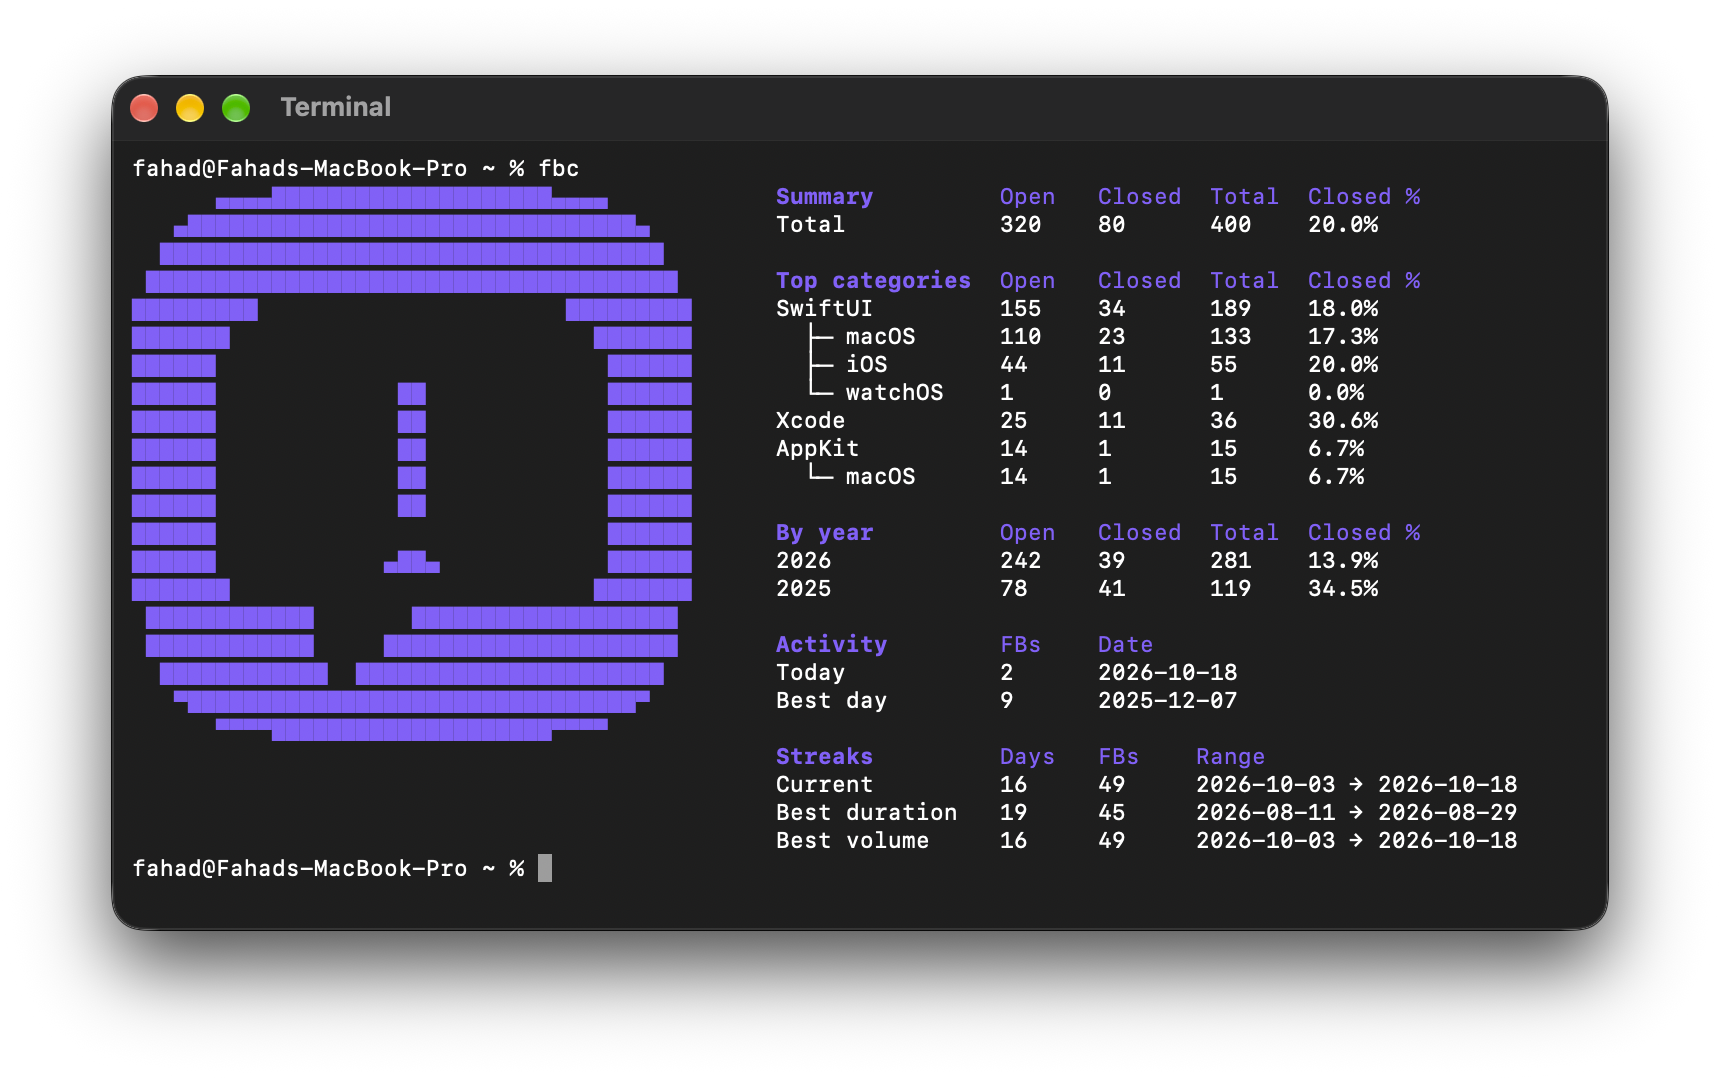
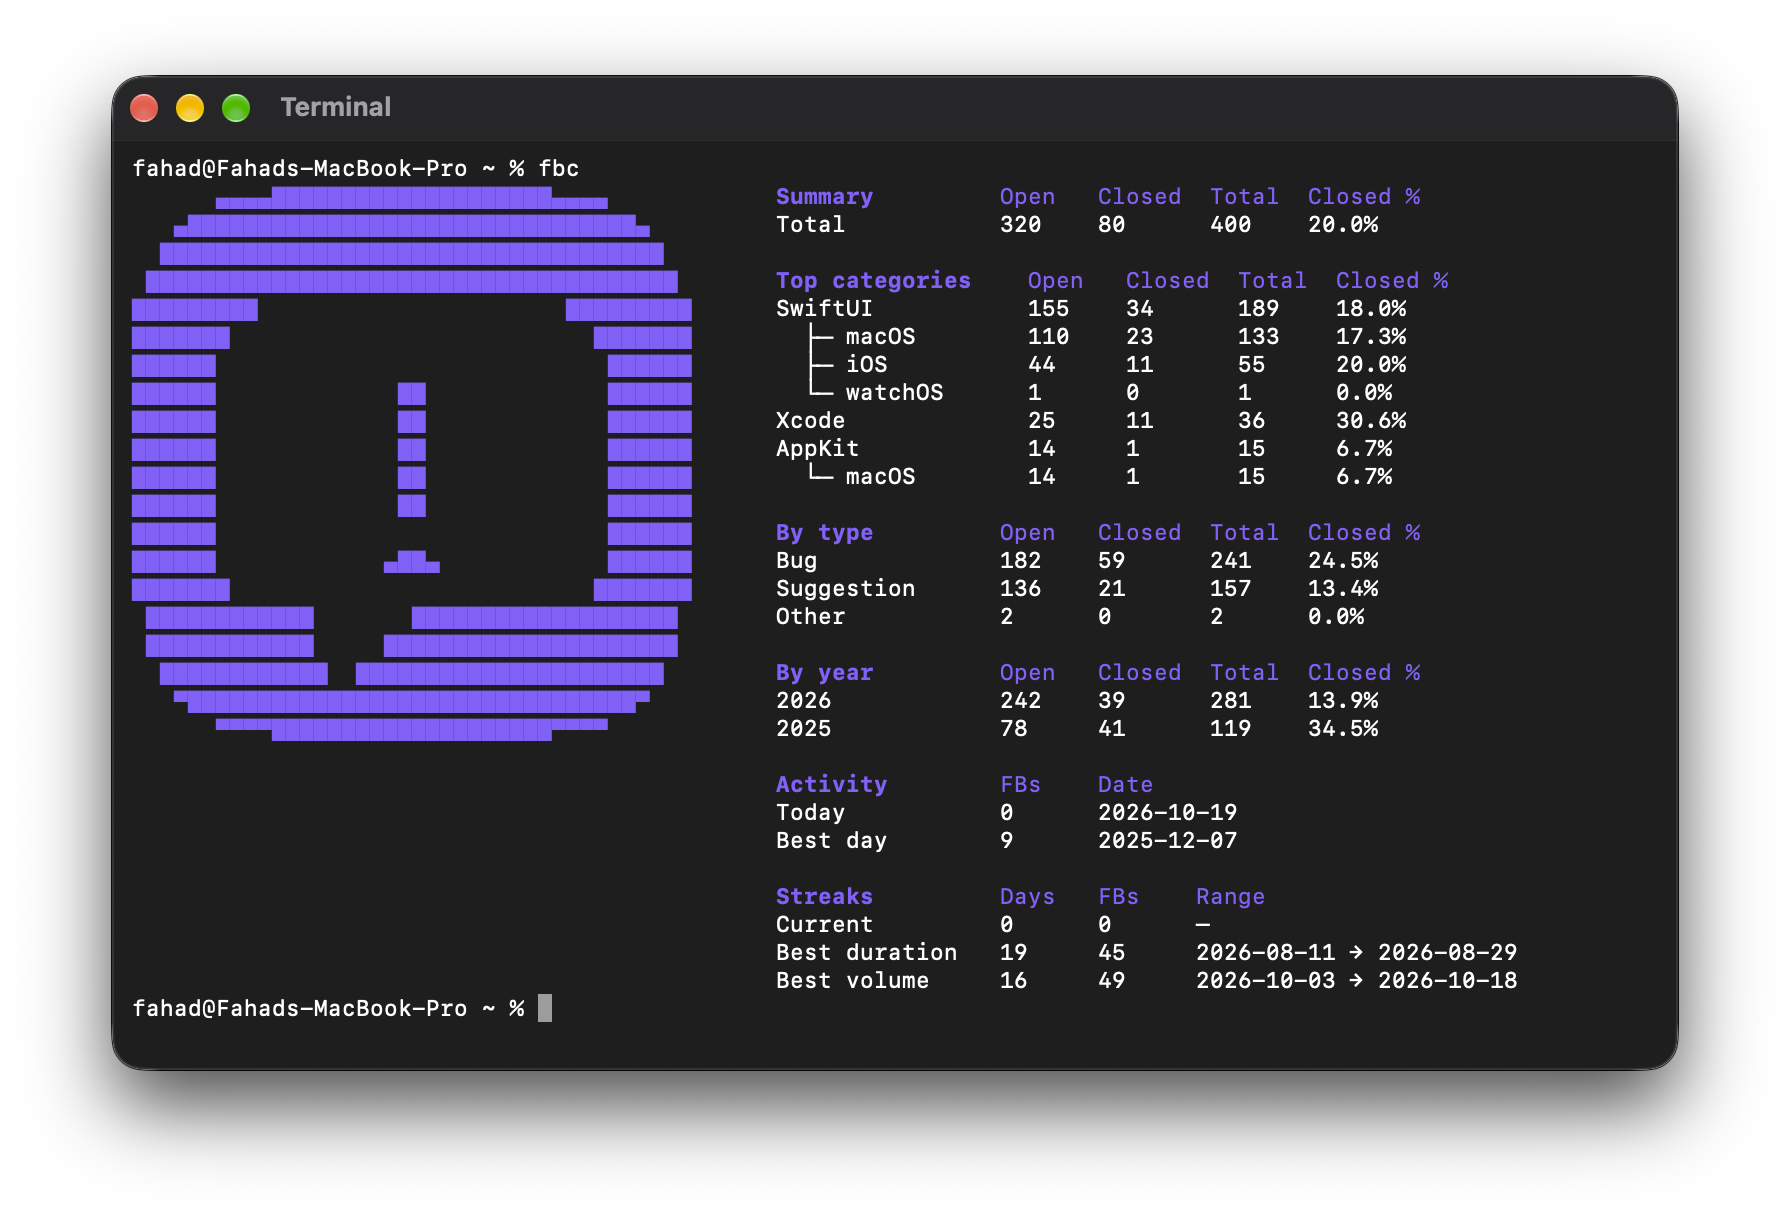
Improve report breakdowns and cached-data guidance

Changed region(s): [[0.4314, 0.1531, 0.8936, 0.8265], [0.0616, 0.0612, 0.9552, 0.7041], [0.0616, 0.7959, 0.9552, 0.9184]]

diff --git a/fbc.swift b/fbc.swift
@@ -5,9 +5,11 @@ import Darwin
 private enum FBCountError: Error, CustomStringConvertible {
     case database(String)
     case missingDatabase(String)
+    case usage
 
     var description: String {
         switch self {
+        case .usage: "Usage: fbc [--missing | --help]"
         case .database(let message): message
         case .missingDatabase(let path): "Feedback database not found at \(path)"
         }
@@ -129,6 +131,100 @@ private func decodedPlatform(in data: Data) -> Platform? {
         return nil
     }
     return findPlatform(in: propertyList)
+}
+
+private func feedbackType(for answer: String) -> String? {
+    switch answer {
+    case "Suggestion", "Enhancement Request": return "Suggestion"
+    case "Incorrect/Unexpected Behavior", "Error or issue using a feature",
+         "Application Crash", "Application Slow/Unresponsive",
+         "Crash", "Crash/Hang/Data Loss", "Bug Report": return "Bug"
+    default: return nil
+    }
+}
+
+@objc(FBCCachedQuestion)
+private final class CachedQuestion: NSObject, NSCoding {
+    let text: String?
+    let answer: String?
+
+    required init?(coder: NSCoder) {
+        text = coder.decodeObject(forKey: "question_text") as? String
+        answer = coder.decodeObject(forKey: "answer_text") as? String
+    }
+
+    func encode(with coder: NSCoder) {}
+}
+
+@objc(FBCCachedQuestionGroup)
+private final class CachedQuestionGroup: NSObject, NSCoding {
+    let questions: [CachedQuestion]
+
+    required init?(coder: NSCoder) {
+        questions = coder.decodeObject(forKey: "questions") as? [CachedQuestion] ?? []
+    }
+
+    func encode(with coder: NSCoder) {}
+}
+
+private func cachedQuestions(in data: Data) -> [CachedQuestion]? {
+    guard let decoder = try? NSKeyedUnarchiver(forReadingFrom: data) else { return nil }
+    defer { decoder.finishDecoding() }
+    decoder.requiresSecureCoding = false
+    decoder.decodingFailurePolicy = .setErrorAndReturn
+    decoder.setClass(CachedQuestion.self, forClassName: "FBKQuestionAnswerPair")
+    decoder.setClass(CachedQuestionGroup.self, forClassName: "FBKQuestionGroupStub")
+    guard let groups = decoder.decodeObject(forKey: NSKeyedArchiveRootObjectKey)
+        as? [CachedQuestionGroup] else { return nil }
+    let questions = groups.flatMap(\.questions)
+    guard decoder.error == nil, !questions.isEmpty,
+          questions.allSatisfy({ $0.text != nil }) else { return nil }
+    return questions
+}
+
+private func decodedStubFeedbackType(in data: Data) -> String? {
+    guard let questions = cachedQuestions(in: data) else { return nil }
+    let types = Set(questions.compactMap { question -> String? in
+        guard let text = question.text,
+              ["What type of feedback are you reporting?", "What type of issue are you reporting?"]
+                .contains(text),
+              let answer = question.answer else { return nil }
+        return feedbackType(for: answer)
+    })
+    return types.count == 1 ? types.first : nil
+}
+
+private enum MissingFieldState: String {
+    case needsHydration
+    case unavailable = "not provided by cached form"
+    case unanswered = "no answer in cached form"
+    case unrecognized = "unrecognized cached answer"
+    case unreadable = "cached form could not be decoded"
+
+    var isUnspecified: Bool { self == .unavailable || self == .unanswered }
+}
+
+private func missingFieldState(_ field: String, stub: Data?) -> MissingFieldState {
+    guard let stub else { return .needsHydration }
+    guard let questions = cachedQuestions(in: stub) else { return .unreadable }
+    let matching = questions.filter { question in
+        guard let text = question.text else { return false }
+        if field == "type" {
+            return ["What type of feedback are you reporting?", "What type of issue are you reporting?"]
+                .contains(text)
+        }
+        return text == "Which platform is most relevant for your report?"
+    }
+    guard !matching.isEmpty else { return .unavailable }
+    return matching.contains { !($0.answer ?? "").trimmingCharacters(in: .whitespacesAndNewlines).isEmpty }
+        ? .unrecognized : .unanswered
+}
+
+private func decodedFeedbackType(in data: Data) -> String? {
+    guard let answers = try? NSKeyedUnarchiver.unarchivedObject(
+        ofClasses: [NSArray.self, NSString.self], from: data
+    ) as? [String], answers.count == 1 else { return nil }
+    return feedbackType(for: answers[0])
 }
 
 private func findPlatform(in value: Any) -> Platform? {
@@ -286,6 +382,14 @@ private func countRow(_ label: String, counts: Counts, indent: Int = 2, labelWid
 }
 
 private func run() throws {
+    let arguments = Array(CommandLine.arguments.dropFirst())
+    if arguments == ["--help"] || arguments == ["-h"] {
+        print("Usage: fbc [--missing | --help]")
+        print("  --missing  List reports with missing or unreadable details.")
+        return
+    }
+    guard arguments.isEmpty || arguments == ["--missing"] else { throw FBCountError.usage }
+    let showsMissing = arguments == ["--missing"]
     let databasePath = FileManager.default.homeDirectoryForCurrentUser
         .appendingPathComponent("Library/Group Containers/group.com.apple.feedback/Library/Application Support/feedback.sqlite")
         .path
@@ -364,16 +468,75 @@ private func run() throws {
         }
 
     var platformCounts: [String: [Platform: Counts]] = [:]
+    var unspecifiedPlatforms: [String: Counts] = [:]
     var unknown: [String: [Feedback]] = [:]
     for item in feedback {
         let platform = item.stub.flatMap(decodedPlatform)
             ?? item.responseID.flatMap { answerPlatforms[$0] }
         if let platform {
             platformCounts[item.area, default: [:]][platform, default: Counts()].add(isClosed: item.isClosed)
+        } else if missingFieldState("platform", stub: item.stub).isUnspecified {
+            unspecifiedPlatforms[item.area, default: Counts()].add(isClosed: item.isClosed)
         } else {
             unknown[item.area, default: []].append(item)
         }
     }
+
+    var missingMetadata: [Int64: Set<String>] = [:]
+    var cachedMetadataIssues: [Int64: Set<String>] = [:]
+    func recordMissingField(_ field: String, remoteID: Int64, stub: Data?) {
+        guard remoteID > 0 else { return }
+        let state = missingFieldState(field, stub: stub)
+        guard !state.isUnspecified else { return }
+        if state == .needsHydration {
+            missingMetadata[remoteID, default: []].insert(field)
+        } else {
+            cachedMetadataIssues[remoteID, default: []].insert("\(field): \(state.rawValue)")
+        }
+    }
+    var feedbackTypes: [String: Counts] = [:]
+    var answerTypes: [Int64: Set<String>] = [:]
+    try database.rows("""
+        SELECT a.ZFORMRESPONSE, a.ZVALUES
+        FROM ZANSWER a
+        LEFT JOIN ZQUESTION q ON q.Z_PK = a.ZQUESTION
+        WHERE q.ZROLE = ':type_req'
+           OR q.ZTEXT IN ('What type of feedback are you reporting?', 'What type of issue are you reporting?')
+           OR a.ZQUESTION IS NULL;
+        """) { statement in
+            guard let responseID = Database.integer(statement, column: 0),
+                  let data = Database.data(statement, column: 1),
+                  let type = decodedFeedbackType(in: data) else { return }
+            answerTypes[responseID, default: []].insert(type)
+        }
+    try database.rows("""
+        SELECT c.ZCLOSED, c.ZFORMRESPONSE, s.ZQUESTIONGROUPSTUBS, c.ZSUBTITLE, c.ZREMOTEID
+        FROM ZCONTENTITEM c
+        LEFT JOIN ZFORMRESPONSESTUB s ON s.Z_PK = c.ZFORMRESPONSESTUB
+        WHERE c.ZTYPE = 4;
+        """) { statement in
+            // Dedicated report forms identify their type in the cached list subtitle.
+            let subtitle = Database.text(statement, column: 3) ?? ""
+            let formType = ["Crash Report", "Share Feedback"].first {
+                subtitle.hasSuffix(" — " + $0)
+            }.map { $0 == "Share Feedback" ? "Other" : "Bug" }
+            let type = formType
+                ?? Database.data(statement, column: 2).flatMap(decodedStubFeedbackType)
+                ?? Database.integer(statement, column: 1).flatMap { responseID in
+                    let types = answerTypes[responseID, default: []]
+                    return types.count == 1 ? types.first : nil
+                }
+                ?? "Unknown"
+            let displayedType = type == "Unknown"
+                && missingFieldState("type", stub: Database.data(statement, column: 2)).isUnspecified
+                ? "Unspecified" : type
+            feedbackTypes[displayedType, default: Counts()].add(
+                isClosed: Database.integer(statement, column: 0) == 1
+            )
+            if displayedType == "Unknown", let remoteID = Database.integer(statement, column: 4), remoteID > 0 {
+                recordMissingField("type", remoteID: remoteID, stub: Database.data(statement, column: 2))
+            }
+        }
 
     var years: [(String, Counts)] = []
     try database.rows("""
@@ -458,7 +621,8 @@ private func run() throws {
     statsLines.append(countRow("Total", counts: summaryCounts))
 
     statsLines.append("")
-    let categoryLabelWidth = max(18, categories.map { $0.name.count + 2 }.max() ?? 18)
+    let categoryLabelWidth = max(unspecifiedPlatforms.isEmpty ? 18 : 20,
+                                 categories.map { $0.name.count + 2 }.max() ?? 18)
     statsLines.append(countHeader("Top categories", labelWidth: categoryLabelWidth))
     for category in categories {
         statsLines.append(countRow(
@@ -475,8 +639,10 @@ private func run() throws {
                     : $0.value.total > $1.value.total
             })
         let unknownItems = unknown[category.name, default: []]
-        let showsUnknown = !categoryPlatforms.isEmpty && !unknownItems.isEmpty
-        let childCount = sortedPlatforms.count + (showsUnknown ? 1 : 0)
+        let unspecifiedCounts = unspecifiedPlatforms[category.name, default: Counts()]
+        let showsUnknown = !unknownItems.isEmpty
+        let showsUnspecified = (!categoryPlatforms.isEmpty || showsUnknown) && unspecifiedCounts.total > 0
+        let childCount = sortedPlatforms.count + (showsUnknown ? 1 : 0) + (showsUnspecified ? 1 : 0)
 
         for (index, entry) in sortedPlatforms.enumerated() {
             let connector = index == childCount - 1 ? "└─" : "├─"
@@ -487,13 +653,28 @@ private func run() throws {
                 labelWidth: categoryLabelWidth
             ))
         }
+        if showsUnspecified {
+            let connector = showsUnknown ? "├─" : "└─"
+            statsLines.append(countRow("\(connector) Unspecified", counts: unspecifiedCounts,
+                                       indent: 4, labelWidth: categoryLabelWidth))
+        }
         if showsUnknown {
             var unknownCounts = Counts()
             unknownItems.forEach { unknownCounts.add(isClosed: $0.isClosed) }
-            statsLines.append(countRow("└─ Unknown", counts: unknownCounts, indent: 4, labelWidth: categoryLabelWidth))
-            for item in unknownItems.sorted(by: { $0.createdAt > $1.createdAt }) {
-                statsLines.append(row("", "FB\(item.remoteID)", indent: 7, labelWidth: categoryLabelWidth))
+            statsLines.append(countRow("└─ Unknown*", counts: unknownCounts, indent: 4, labelWidth: categoryLabelWidth))
+            for item in unknownItems where item.remoteID > 0 {
+                recordMissingField("platform", remoteID: item.remoteID, stub: item.stub)
             }
+        }
+    }
+
+    statsLines.append("")
+    let typeLabelWidth = max(18, feedbackTypes.keys.map { $0.count + 4 }.max() ?? 18)
+    statsLines.append(countHeader("By type", labelWidth: typeLabelWidth))
+    for type in ["Bug", "Suggestion", "Other", "Unspecified", "Unknown"] {
+        if let counts = feedbackTypes[type], counts.total > 0 {
+            statsLines.append(countRow(type == "Unknown" ? "Unknown*" : type,
+                                       counts: counts, labelWidth: typeLabelWidth))
         }
     }
 
@@ -532,7 +713,42 @@ private func run() throws {
         end: bestVolumeStreak[1]
     ))
 
-    printDashboard(statsLines)
+    if showsMissing {
+        if missingMetadata.isEmpty && cachedMetadataIssues.isEmpty {
+            print("No missing report details.")
+            return
+        }
+        if !missingMetadata.isEmpty {
+            print(section("Reports with uncached details · \(missingMetadata.count)"))
+            print("  Open reports in Feedback Assistant while online to populate these fields.")
+            print("")
+            for remoteID in missingMetadata.keys.sorted(by: >) {
+                let fields = missingMetadata[remoteID, default: []].sorted().joined(separator: ", ")
+                print("  FB\(remoteID)  ·  \(fields)")
+            }
+        }
+        if !cachedMetadataIssues.isEmpty {
+            if !missingMetadata.isEmpty { print("") }
+            print(section("Unreadable cached details · \(cachedMetadataIssues.count)"))
+            for remoteID in cachedMetadataIssues.keys.sorted(by: >) {
+                let reasons = cachedMetadataIssues[remoteID, default: []].sorted().joined(separator: "; ")
+                print("  FB\(remoteID)  ·  \(reasons)")
+            }
+        }
+    } else {
+        printDashboard(statsLines)
+        if !missingMetadata.isEmpty || !cachedMetadataIssues.isEmpty {
+            print("")
+            if !missingMetadata.isEmpty {
+                print("* \(missingMetadata.count) reports have details that aren’t cached locally.")
+                print("  Open reports in Feedback Assistant while online to populate them.")
+            }
+            if !cachedMetadataIssues.isEmpty {
+                print("\(missingMetadata.isEmpty ? "*" : " ") \(cachedMetadataIssues.count) reports have cached details fbc couldn’t recognize.")
+            }
+            print("  Run fbc --missing to list affected reports.")
+        }
+    }
 }
 
 do {

diff --git a/README.md b/README.md
@@ -14,15 +14,14 @@ curl -fsSL https://raw.githubusercontent.com/FahadBuilds/fbc/main/install.sh | s
 
 Requires macOS and the Swift compiler, available with Xcode or the Xcode Command Line Tools.
 
+## Database access
 
-## Data freshness
+`fbc` reads Feedback Assistant’s cached database in read-only mode. It makes no network requests or API calls.
 
-Feedback Assistant does not always cache every report's platform metadata locally until the report has been opened. If `fbc` shows an `Unknown` platform followed by an FB number, open that report in Feedback Assistant while online, wait for it to load, then run `fbc` again.
-
-Opening a report usually hydrates the missing local metadata, but an unknown value can also mean that the report's form does not contain a platform answer.
+Some report details are cached only after opening the report in Feedback Assistant.
 
 ## Disclaimer
 
 `fbc` is an unofficial project and is not affiliated with Apple.
 
-It reads Feedback Assistant's local Core Data SQLite store directly. The on-disk schema is undocumented and may change without notice, which can break `fbc`.
+Feedback Assistant’s database schema is undocumented and may change without notice, which can break `fbc`.
